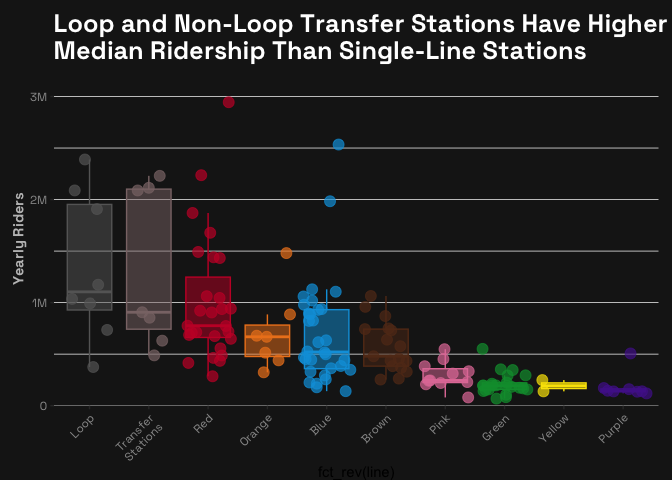
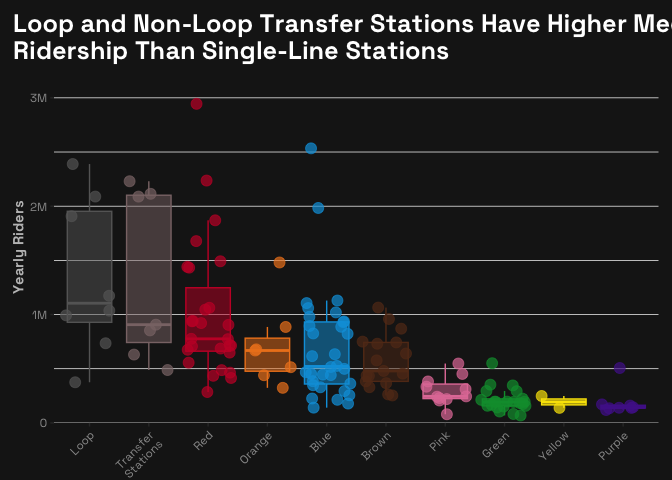
updated plots with proper font formatting, added hi-res

diff --git a/L-ridership_graph/L-ridership_graph.md b/L-ridership_graph/L-ridership_graph.md
@@ -8,6 +8,7 @@ library(tidyverse)
 library(here)
 library(scales)
 library(ggforce)
+library(showtext)
 ```
 
 Import data.
@@ -50,8 +51,7 @@ ggplot(
     stat = "identity"
   ) +
   labs(
-    title = "CTA Stations with 1.5M+ Riders in 2022",
-    subtitle = "Color-Coded by Line (Transfer/Loop as Gray)",
+    title = "The Red Line Dominates the Most-Ridden CTA\nStations List",
     x = "",
     y = ""
   ) +
@@ -68,8 +68,8 @@ ggplot(
                 "#c60c30",
                 "#00a1de",
                 "gray",
-                "gray",
                 "#c60c30",
+                "gray",
                 "gray",
                 "gray",
                 "#c60c30",
@@ -86,12 +86,11 @@ ggplot(
         panel.grid.major.x = element_blank(),
         panel.grid.major.y = element_line(linewidth = 0.25),
         
+        plot.title.position = "plot",
         plot.title = element_text(color = "white",
-                                  family = "Space Grotesk Bold",
+                                  family = "Space Grotesk",
+                                  face = "bold",
                                   size = 20),
-        plot.subtitle = element_text(color = "gray90",
-                                     family = "Space Grotesk",
-                                     size = 12.5),
         
         axis.text = element_text(color = "gray60",
                                  family = "Space Grotesk"),
@@ -100,11 +99,15 @@ ggplot(
                         hjust = 1),
         
         legend.position = "none",
-        plot.margin = margin(10, 10, 0, 0)
+        plot.margin = margin(10, 10, 0, 10)
   )
 ```
 
 ![](L-ridership_graph_files/figure-commonmark/highest%20ridership%20graph-1.png)
+
+``` r
+# ggsave(here("L-ridership_graph", "station-ridership_bar-graph.png"), width = 8, units = "in")
+```
 
 First defined every station part of each line/the loop. Then used those
 vectors to give them a new value in a new column `line`. Finally grouped
@@ -167,7 +170,7 @@ ggplot(totals_2022) +
     stat = "identity"
   ) +
   labs(
-    title = "The Red & Blue Lines Have Far and Away the\nHighest Ridership of CTA 'L' Lines",
+    title = "The Red & Blue Lines Have Far and Away the Highest\nRidership of All CTA 'L' Lines",
     y = "Total Riders",
     x = ""
   ) +
@@ -197,12 +200,15 @@ ggplot(totals_2022) +
         panel.grid.major.x = element_blank(),
         panel.grid.major.y = element_line(linewidth = 0.25),
         
+        plot.title.position = "plot",
         plot.title = element_text(color = "white",
-                                  family = "Space Grotesk Bold",
+                                  family = "Space Grotesk",
+                                  face = "bold",
                                   size = 20),
         
         axis.title.y = element_text(color = "gray75",
-                                    family = "Space Grotesk Bold"),
+                                    family = "Space Grotesk",
+                                    face = "bold"),
         axis.text = element_text(color = "gray60",
                                  family = "Space Grotesk"),
         axis.text.x = element_text(
@@ -285,6 +291,10 @@ ggplot(totals_2022) +
 ![](L-ridership_graph_files/figure-commonmark/Ridership%20by%20CTA%20Line%20Bar%20Graph-1.png)
 
 ``` r
+# ggsave(here("L-ridership_graph", "L-ridership_bar-graph.png"), width = 8, units = "in")
+```
+
+``` r
 yearly_line_riders_2022 <- yearly_riders_2022 %>% 
   mutate(
     line = fct(case_when(
@@ -305,7 +315,9 @@ yearly_line_riders_2022 <- yearly_riders_2022 %>%
     line = fct_reorder(line, yearly_riders, .fun = "median") # sort lines by median station ridership
   )
 
-ggplot(
+
+
+line_ridership_scatterbox <- ggplot(
   yearly_line_riders_2022,
   aes(x = fct_rev(line),
       y = yearly_riders,
@@ -324,7 +336,7 @@ ggplot(
     show.legend = FALSE
   ) +
   labs(
-    title = "Loop and Non-Loop Transfer Stations Have Higher\nMedian Ridership Than Single-Line Stations",
+    title = "Loop and Non-Loop Transfer Stations Have Higher Median\nRidership Than Single-Line Stations",
     y = "Yearly Riders"
   ) +
   scale_y_continuous(
@@ -368,12 +380,16 @@ ggplot(
         panel.grid.major.x = element_blank(),
         panel.grid.major.y = element_line(linewidth = 0.25),
         
+        plot.title.position = "plot",
         plot.title = element_text(color = "white",
-                                  family = "Space Grotesk Bold",
+                                  family = "Space Grotesk",
+                                  face = "bold",
                                   size = 19),
         
+        axis.title.x = element_blank(),
         axis.title.y = element_text(color = "gray75",
-                                    family = "Space Grotesk Bold"),
+                                    family = "Space Grotesk",
+                                    face = "bold"),
         axis.text = element_text(color = "gray60",
                                  family = "Space Grotesk"),
         axis.text.x = element_text(
@@ -383,6 +399,12 @@ ggplot(
         legend.position = "none",
         plot.margin = margin(10, 10, 0, 10)
   )
+
+line_ridership_scatterbox
 ```
 
 ![](L-ridership_graph_files/figure-commonmark/Ridership%20by%20CTA%20Line%20&%20Station%20Box/Scatterplot-1.png)
+
+``` r
+# ggsave(here("L-ridership_graph", "L-ridership_scatterbox.png"), plot = line_ridership_scatterbox, width = 8, units = "in")
+```
